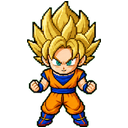
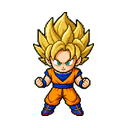
feat(pet): overhaul Goku SSJ3 authentic cascading mane and canon outfits across all 10 forms

diff --git a/src/views/AgentPetView.svelte b/src/views/AgentPetView.svelte
@@ -996,7 +996,7 @@
                     <img
                       src={f.avatarUrl}
                       alt={f.name}
-                      class="w-full h-full object-cover"
+                      class="w-full h-full object-contain p-0.5"
                     />
                   </div>
 

diff --git a/scripts/build-goku-forms.py b/scripts/build-goku-forms.py
@@ -47,8 +47,8 @@ FORMS = {
         "iris": ["#1f8c7c", "#2fae9c"], "skin": None,
     },
     "ss3": {
-        "hairShape": "ssj3", "hair": ["#946a05", "#b8860b", "#f5c842", "#fff0a0"], "outline": "#4f3300",
-        "iris": ["#1f8c7c", "#2fae9c"], "skin": None,
+        "hairShape": "ssj3", "hair": ["#964802", "#cf7808", "#ffd214", "#fff6a0"], "outline": "#381702",
+        "iris": ["#0c6355", "#10b981"], "skin": None,
     },
     "god": {
         "hairShape": "lifted", "hair": ["#5e0820", "#8c0f2e", "#d4204a", "#ff6b85"], "outline": "#2a0010",
@@ -78,7 +78,7 @@ SHAPE_SCALE = {
     "lifted": (0.76, 1.08),
     "ssj": (1.0, 1.0),
     "ssj2": (1.08, 0.97),
-    "ssj3": (1.06, 1.02),
+    "ssj3": (0.95, 1.05),
 }
 
 
@@ -267,59 +267,194 @@ def erode(mask, steps=1):
     return ~dilate(~mask, steps)
 
 
-def ssj3_mane(shape, m):
-    """Waist-length mane hanging from the back of the head toward the body.
+def draw_ss3_forehead_bangs(cx, line, form):
+    """Forehead and bangs overlay for SSJ3:
+    - Vầng trán cao nổi bật (prominent tall brow ridge)
+    - Long iconic sharp bang curving down across forehead towards eye
+    - Minor temple lock framing the face
+    """
+    fx = Image.new("RGBA", (CELL_W, CELL_H), (0, 0, 0, 0))
+    f_draw = ImageDraw.Draw(fx)
+    c_outline = tuple(hex_rgb(form["outline"]).astype(int)) + (255,)
+    c_base = tuple(ramp_color(form["hair"], np.array([0.7]))[0].astype(int)) + (255,)
+    c_mid = tuple(ramp_color(form["hair"], np.array([0.4]))[0].astype(int)) + (255,)
+    c_hi = tuple(ramp_color(form["hair"], np.array([0.95]))[0].astype(int)) + (255,)
 
-    Returns the mask and a 0-1 shade plane: dark rim, mid body, a few lit strands.
+    # Long iconic SSJ3 bang curving down
+    bang_pts = [
+        (cx - 3, line - 6),
+        (cx + 6, line - 4),
+        (cx + 8, line + 8),
+        (cx + 4, line + 22),
+        (cx - 1, line + 28),  # sharp tip curving slightly inward
+        (cx + 1, line + 16),
+        (cx - 5, line + 6),
+    ]
+    f_draw.polygon(bang_pts, fill=c_base, outline=c_outline)
+    f_draw.line([(cx + 4, line - 2), (cx + 6, line + 10), (cx + 2, line + 24)], fill=c_hi, width=2)
+    f_draw.line([(cx - 3, line - 6), (cx - 5, line + 6)], fill=c_mid, width=2)
+
+    # Minor temple bang on right
+    temple_bang = [
+        (cx + 12, line - 4),
+        (cx + 20, line - 2),
+        (cx + 24, line + 10),
+        (cx + 22, line + 18),
+        (cx + 16, line + 8),
+    ]
+    f_draw.polygon(temple_bang, fill=c_base, outline=c_outline)
+    f_draw.line([(cx + 18, line - 1), (cx + 22, line + 10)], fill=c_hi, width=1)
+    return np.array(fx)
+
+
+def draw_ss3_mane(shape, m, form, row=0):
+    """Waist-to-thigh cascading spiky mane matching official Banpresto figure reference:
+    - Massive, dense, heavy curved cascade of hair flowing down behind neck, shoulders, and back to waist/thighs.
+    - Symmetrical crescent-shaped chunky locks on each flank.
+    - Deep warm amber-gold shadow backing, rich midtone, bright highlight ridges.
+    - Dynamic aerodynamic sweeping locks for running rows (1 and 2).
     """
     hx, hy = m["head"]
-    bx, by = m["body"]
-    dx, dy = bx - hx, by - hy
-    # When running, the face leads the hair: let the mane trail behind the head.
-    lead = m["face_x"] - hx
-    if abs(lead) > 12:
-        dx -= math.copysign(0.7 * math.hypot(dx, dy), lead)
-    norm = math.hypot(dx, dy) or 1.0
-    dx, dy = dx / norm, dy / norm
-    nx, ny = -dy, dx
-    width = m["hair_w"] * 0.92
-    length = max(56.0, (m["bottom"] - m["hair_top"]) * 0.56)
-    ox, oy = hx, hy
+    cx = m["cx"]
+    fx = Image.new("RGBA", (shape[1], shape[0]), (0, 0, 0, 0))
+    draw = ImageDraw.Draw(fx)
 
-    def at(along, across):
-        return (ox + dx * along + nx * across, oy + dy * along + ny * across)
+    c_outline = tuple(hex_rgb(form["outline"]).astype(int)) + (255,)
+    c_shadow = tuple(ramp_color(form["hair"], np.array([0.05]))[0].astype(int)) + (255,)
+    c_mid = tuple(ramp_color(form["hair"], np.array([0.40]))[0].astype(int)) + (255,)
+    c_base = tuple(ramp_color(form["hair"], np.array([0.72]))[0].astype(int)) + (255,)
+    c_hi = tuple(ramp_color(form["hair"], np.array([0.96]))[0].astype(int)) + (255,)
 
-    # Clockwise outline: one flank with outward spikes, a row of tips, the other flank.
-    left = [at(0, -width * 0.5)]
-    # Flank locks point down and only slightly outward, like hair falling down the back.
-    for k, a in enumerate((0.2, 0.4, 0.6)):
-        spread = width * (0.52 + 0.08 * k)
-        left += [at(length * (a - 0.08), -spread), at(length * (a + 0.09), -spread - 7), at(length * a, -spread + 3)]
-    tips = []
-    span = width * 1.1
-    count = 5
-    for i in range(count):
-        l = -span / 2 + span * i / count
-        r = l + span / count
-        tip = length * (1.0 if i in (1, 3) else 0.94 if i == 2 else 0.86)
-        tips += [at(length * 0.8, l), at(tip, (l + r) / 2 + 3)]
-    tips.append(at(length * 0.8, span / 2))
-    right = []
-    for x, y in reversed(left):
-        a = (x - ox) * dx + (y - oy) * dy
-        c = (x - ox) * nx + (y - oy) * ny
-        right.append(at(a, -c))
-    mask = draw_polygon_mask(shape, left + tips + right)
-    ys, xs = np.mgrid[0 : shape[0], 0 : shape[1]]
-    along = (xs - ox) * dx + (ys - oy) * dy
-    across = (xs - ox) * nx + (ys - oy) * ny
-    shade = np.full(shape, 0.74, dtype=np.float32)
-    strands = (np.abs(((across + 3) % 11) - 5.5) < 1.1) & (along > 8)
-    shade[strands] = 0.92
-    shade -= 0.2 * np.clip(along / length, 0, 1)
-    rim = mask & ~erode(mask, 2)
-    shade[rim] = 0.36
-    return mask, np.clip(shade, 0.05, 0.95)
+    if row in (1, 2):
+        facing_right = (row == 1)
+        sign = -1 if facing_right else 1
+        ax = (hx - 10) if facing_right else (hx + 10)
+        ay = hy - 4
+
+        # Dynamic swept back mane for running
+        bg_shadow = [
+            (ax, ay + 6),
+            (ax + sign * 38, ay - 20),
+            (ax + sign * 75, ay - 14),
+            (ax + sign * 95, ay - 5),
+            (ax + sign * 80, ay + 12),
+            (ax + sign * 105, ay + 24),
+            (ax + sign * 82, ay + 40),
+            (ax + sign * 110, ay + 56),
+            (ax + sign * 85, ay + 72),
+            (ax + sign * 100, ay + 92),
+            (ax + sign * 72, ay + 105),
+            (ax + sign * 82, ay + 125),
+            (ax + sign * 48, ay + 128),
+            (ax + sign * 56, ay + 148),
+            (ax + sign * 24, ay + 125),
+            (ax, ay + 70),
+        ]
+        draw.polygon(bg_shadow, fill=c_shadow, outline=c_outline)
+
+        # Swept locks
+        locks = [
+            ([(ax, ay), (ax + sign * 40, ay - 18), (ax + sign * 72, ay - 12), (ax + sign * 92, ay - 4), (ax + sign * 65, ay + 8), (ax + sign * 32, ay + 12), (ax, ay + 18)],
+             [(ax + sign * 20, ay - 4), (ax + sign * 50, ay - 5), (ax + sign * 82, ay - 2)]),
+            ([(ax, ay + 18), (ax + sign * 42, ay + 12), (ax + sign * 78, ay + 18), (ax + sign * 102, ay + 25), (ax + sign * 72, ay + 42), (ax + sign * 38, ay + 38), (ax, ay + 34)],
+             [(ax + sign * 22, ay + 16), (ax + sign * 58, ay + 22), (ax + sign * 92, ay + 25)]),
+            ([(ax, ay + 34), (ax + sign * 45, ay + 36), (ax + sign * 80, ay + 50), (ax + sign * 106, ay + 58), (ax + sign * 75, ay + 74), (ax + sign * 40, ay + 70), (ax, ay + 54)],
+             [(ax + sign * 22, ay + 42), (ax + sign * 60, ay + 52), (ax + sign * 96, ay + 58)]),
+            ([(ax, ay + 54), (ax + sign * 42, ay + 70), (ax + sign * 72, ay + 86), (ax + sign * 96, ay + 94), (ax + sign * 65, ay + 108), (ax + sign * 34, ay + 100), (ax, ay + 74)],
+             [(ax + sign * 22, ay + 72), (ax + sign * 55, ay + 86), (ax + sign * 86, ay + 92)]),
+            ([(ax, ay + 74), (ax + sign * 36, ay + 100), (ax + sign * 56, ay + 122), (ax + sign * 76, ay + 128), (ax + sign * 46, ay + 136), (ax + sign * 22, ay + 120), (ax, ay + 92)],
+             [(ax + sign * 18, ay + 96), (ax + sign * 42, ay + 116), (ax + sign * 68, ay + 125)]),
+        ]
+        for poly, spine in locks:
+            draw.polygon(poly, fill=c_base, outline=c_outline)
+            draw.line(spine, fill=c_hi, width=2)
+            draw.line([poly[0], poly[-1]], fill=c_mid, width=2)
+    else:
+        # Front / idle / celebrate / working:
+        # Massive, heavy, sweeping mane curving down behind back to waist & thighs
+        cy = hy - 4
+
+        # 1. Warm amber-gold shadow backing, tailored to the crescent lock contours
+        bg_shadow = [
+            (cx - 24, cy + 14),
+            (cx - 52, cy + 28),
+            (cx - 74, cy + 50),
+            (cx - 84, cy + 74),
+            (cx - 68, cy + 78),
+            (cx - 82, cy + 98),
+            (cx - 88, cy + 122),
+            (cx - 70, cy + 124),
+            (cx - 78, cy + 144),
+            (cx - 80, cy + 162),
+            (cx - 60, cy + 160),
+            (cx - 58, cy + 178),
+            (cx - 50, cy + 192),
+            (cx - 36, cy + 182),
+            (cx - 28, cy + 196),
+            (cx - 14, cy + 184),
+            (cx, cy + 198),
+            (cx + 14, cy + 184),
+            (cx + 28, cy + 196),
+            (cx + 36, cy + 182),
+            (cx + 50, cy + 192),
+            (cx + 58, cy + 178),
+            (cx + 60, cy + 160),
+            (cx + 80, cy + 162),
+            (cx + 78, cy + 144),
+            (cx + 70, cy + 124),
+            (cx + 88, cy + 122),
+            (cx + 82, cy + 98),
+            (cx + 68, cy + 78),
+            (cx + 84, cy + 74),
+            (cx + 74, cy + 50),
+            (cx + 52, cy + 28),
+            (cx + 24, cy + 14),
+        ]
+        draw.polygon(bg_shadow, fill=c_shadow, outline=c_outline)
+
+        # 2. Chunky curved crescent locks on each flank (left and right)
+        flank_locks = [
+            # Lock 1: Trapezius/shoulder lock
+            ([(cx - 22, cy + 18), (cx - 46, cy + 26), (cx - 70, cy + 48), (cx - 80, cy + 70), (cx - 62, cy + 68), (cx - 28, cy + 36)],
+             [(cx - 35, cy + 28), (cx - 56, cy + 46), (cx - 72, cy + 64)]),
+            # Lock 2: Upper arm/chest lock (thick, prominent)
+            ([(cx - 26, cy + 40), (cx - 56, cy + 64), (cx - 78, cy + 92), (cx - 84, cy + 118), (cx - 64, cy + 110), (cx - 28, cy + 64)],
+             [(cx - 40, cy + 58), (cx - 64, cy + 84), (cx - 76, cy + 108)]),
+            # Lock 3: Waist lock (flowing down behind forearms/hands)
+            ([(cx - 26, cy + 68), (cx - 54, cy + 100), (cx - 72, cy + 130), (cx - 76, cy + 156), (cx - 55, cy + 146), (cx - 24, cy + 98)],
+             [(cx - 36, cy + 88), (cx - 58, cy + 120), (cx - 68, cy + 146)]),
+            # Lock 4: Thigh lock (terminating at bottom near thighs)
+            ([(cx - 24, cy + 100), (cx - 45, cy + 134), (cx - 54, cy + 164), (cx - 48, cy + 186), (cx - 32, cy + 170), (cx - 18, cy + 130)],
+             [(cx - 28, cy + 122), (cx - 42, cy + 150), (cx - 44, cy + 174)]),
+        ]
+
+        for poly_l, spine_l in flank_locks:
+            # Left lock
+            draw.polygon(poly_l, fill=c_base, outline=c_outline)
+            draw.line([poly_l[0], poly_l[1]], fill=c_mid, width=2)
+            draw.line(spine_l, fill=c_hi, width=2)
+
+            # Symmetrical right lock
+            poly_r = [(2 * cx - x, y) for (x, y) in poly_l]
+            spine_r = [(2 * cx - x, y) for (x, y) in spine_l]
+            draw.polygon(poly_r, fill=c_base, outline=c_outline)
+            draw.line([poly_r[0], poly_r[1]], fill=c_mid, width=2)
+            draw.line(spine_r, fill=c_hi, width=2)
+
+        # Center cascading tips visible between the legs down to waist/knees
+        center_tips = [
+            ([(cx - 18, cy + 116), (cx - 20, cy + 156), (cx - 14, cy + 188), (cx - 7, cy + 162), (cx - 9, cy + 126)],
+             [(cx - 15, cy + 136), (cx - 16, cy + 164), (cx - 13, cy + 182)]),
+            ([(cx - 7, cy + 126), (cx - 3, cy + 170), (cx, cy + 196), (cx + 3, cy + 170), (cx + 7, cy + 126)],
+             [(cx, cy + 136), (cx, cy + 166), (cx, cy + 190)]),
+            ([(cx + 9, cy + 126), (cx + 7, cy + 162), (cx + 14, cy + 188), (cx + 20, cy + 156), (cx + 18, cy + 116)],
+             [(cx + 13, cy + 136), (cx + 16, cy + 164), (cx + 15, cy + 182)]),
+        ]
+        for poly_c, spine_c in center_tips:
+            draw.polygon(poly_c, fill=c_base, outline=c_outline)
+            draw.line(spine_c, fill=c_hi, width=2)
+
+    return np.array(fx)
 
 
 def ssj2_bang(shape, m):
@@ -364,7 +499,67 @@ def remove_brows(out, cls):
     out[brows, :3] = np.median(out[fill_px, :3], axis=0).astype(np.uint8)
 
 
-def build_cell(cell, form):
+def apply_form_outfit(out, cls, m, form_id, row=0):
+    """Apply canon dogi / outfit variations per evolution form."""
+    cx, line = int(m["cx"]), int(m["hairline"])
+    facing_left = (row == 2)
+    # Patch x-offset depending on facing direction
+    patch_x = cx + (16 if facing_left else -18)
+    patch_y = line + 56
+
+    if form_id == "base":
+        # Kame Kanji patch on chest
+        fx = Image.fromarray(out)
+        draw = ImageDraw.Draw(fx)
+        draw.ellipse([patch_x - 6, patch_y - 6, patch_x + 6, patch_y + 6], fill=(255, 255, 255, 255), outline=(0, 0, 0, 255))
+        draw.text((patch_x - 4, patch_y - 7), "亀", fill=(0, 0, 0, 255))
+        return np.array(fx)
+
+    elif form_id == "kaioken":
+        # Kaio Kanji patch on chest
+        fx = Image.fromarray(out)
+        draw = ImageDraw.Draw(fx)
+        draw.ellipse([patch_x - 6, patch_y - 6, patch_x + 6, patch_y + 6], fill=(255, 255, 255, 255), outline=(120, 0, 0, 255))
+        draw.text((patch_x - 4, patch_y - 7), "界", fill=(120, 0, 0, 255))
+        return np.array(fx)
+
+    elif form_id in ("ssblue", "blue-kaioken"):
+        # Whis Gi: Whis signature swirl on left chest
+        fx = Image.fromarray(out)
+        draw = ImageDraw.Draw(fx)
+        c_pen = (60, 0, 0, 255) if form_id == "blue-kaioken" else (0, 0, 0, 255)
+        draw.arc([patch_x - 5, patch_y - 6, patch_x + 5, patch_y + 4], start=0, end=270, fill=c_pen, width=2)
+        draw.line([(patch_x - 1, patch_y + 4), (patch_x - 1, patch_y + 8)], fill=c_pen, width=2)
+        return np.array(fx)
+
+    elif form_id == "ui-sign":
+        # Tournament of Power: Ripped orange gi showing navy blue undershirt
+        chest_mask = (np.arange(CELL_H)[:, None] > line + 45) & (np.arange(CELL_H)[:, None] < line + 85) & (np.abs(np.arange(CELL_W)[None, :] - cx) < 26)
+        orange_chest = cls["opaque"] & chest_mask & (out[:, :, 0] > 140) & (out[:, :, 1] > 80) & (out[:, :, 2] < 60)
+        out[orange_chest, 0] = np.clip(out[orange_chest, 0] * 0.15, 10, 45).astype(np.uint8)
+        out[orange_chest, 1] = np.clip(out[orange_chest, 1] * 0.25, 20, 75).astype(np.uint8)
+        out[orange_chest, 2] = np.clip(out[orange_chest, 2] * 0.90 + 90, 80, 175).astype(np.uint8)
+        return out
+
+    elif form_id == "mui":
+        # Mastered Ultra Instinct: Shirtless / cởi trần chiến đấu với cơ bắp và vết xước
+        torso_mask = (np.arange(CELL_H)[:, None] > line + 40) & (np.arange(CELL_H)[:, None] < line + 92) & (np.abs(np.arange(CELL_W)[None, :] - cx) < 32)
+        shirt_torso = cls["opaque"] & torso_mask & ~cls["skin"] & ~cls["hair"]
+        skin_rgb = out[cls["skin"], :3]
+        if len(skin_rgb) > 0:
+            skin_mean = skin_rgb.mean(axis=0)
+            light_factor = np.clip(out[shirt_torso, :3].mean(axis=-1) / 200.0, 0.7, 1.2)[..., None]
+            out[shirt_torso, :3] = np.clip(skin_mean * light_factor, 0, 255).astype(np.uint8)
+        fx = Image.fromarray(out)
+        draw = ImageDraw.Draw(fx)
+        draw.line([(cx - 15, line + 55), (cx - 5, line + 62)], fill=(150, 40, 30, 255), width=2)
+        draw.line([(cx + 8, line + 60), (cx + 18, line + 70)], fill=(150, 40, 30, 255), width=2)
+        return np.array(fx)
+
+    return out
+
+
+def build_cell(cell, form, form_id="base", row=0):
     if (cell[:, :, 3] > 0).sum() == 0:
         return cell
     cls = classify(cell)
@@ -400,24 +595,35 @@ def build_cell(cell, form):
 
     if form["hairShape"] == "ssj3":
         remove_brows(out, cls)
-        mane, shade = ssj3_mane(hair.shape, m)
-        behind = mane & (out[:, :, 3] == 0)
-        mane_rgb = hair_rgb(shade)
-        out[behind, :3] = mane_rgb[behind]
-        out[behind, 3] = 255
-        rim = dilate(mane | (out[:, :, 3] > 0), 1) & (out[:, :, 3] == 0) & dilate(behind, 1)
-        out[rim, :3] = hex_rgb(form["outline"])
-        out[rim, 3] = 255
+        mane_arr = draw_ss3_mane(hair.shape, m, form, row=row)
+        behind = (mane_arr[:, :, 3] > 0) & (out[:, :, 3] == 0)
+        out[behind] = mane_arr[behind]
+        # Forehead & bangs overlay in front of face
+        bangs_arr = draw_ss3_forehead_bangs(m["cx"], m["hairline"], form)
+        front = bangs_arr[:, :, 3] > 0
+        out[front] = bangs_arr[front]
+
+    # Apply canon outfit variations
+    out = apply_form_outfit(out, cls, m, form_id, row=row)
     return out
 
 
 def avatar_from(cell):
     ys, xs = np.nonzero(cell[:, :, 3] > 0)
+    if len(ys) == 0 or len(xs) == 0:
+        return Image.new("RGBA", (AVATAR, AVATAR), (0, 0, 0, 0))
     crop = Image.fromarray(cell[ys.min() : ys.max() + 1, xs.min() : xs.max() + 1])
-    scale = min((AVATAR - 2) / crop.width, (AVATAR - 2) / crop.height)
-    crop = crop.resize((max(1, round(crop.width * scale)), max(1, round(crop.height * scale))), Image.LANCZOS)
+    # 12px breathing room on each side ensures full silhouette and SSJ3 mane
+    # are completely visible without edge clipping in cards or rounded popovers
+    max_dim = AVATAR - 24
+    scale = min(max_dim / crop.width, max_dim / crop.height)
+    new_w = max(1, round(crop.width * scale))
+    new_h = max(1, round(crop.height * scale))
+    crop = crop.resize((new_w, new_h), Image.LANCZOS)
     canvas = Image.new("RGBA", (AVATAR, AVATAR), (0, 0, 0, 0))
-    canvas.alpha_composite(crop, ((AVATAR - crop.width) // 2, AVATAR - 1 - crop.height))
+    ox = (AVATAR - new_w) // 2
+    oy = (AVATAR - new_h) // 2
+    canvas.alpha_composite(crop, (ox, oy))
     return canvas
 
 
@@ -438,7 +644,7 @@ def main():
             for c in range(COLS):
                 y0, x0 = r * CELL_H, c * CELL_W
                 cell = sheet[y0 : y0 + CELL_H, x0 : x0 + CELL_W]
-                out[y0 : y0 + CELL_H, x0 : x0 + CELL_W] = build_cell(cell, form)
+                out[y0 : y0 + CELL_H, x0 : x0 + CELL_W] = build_cell(cell, form, form_id=form_id, row=r)
         target = PET_DIR / "forms" / form_id
         target.mkdir(parents=True, exist_ok=True)
         Image.fromarray(out).save(target / "spritesheet.webp", quality=92, alpha_quality=100, method=6)
